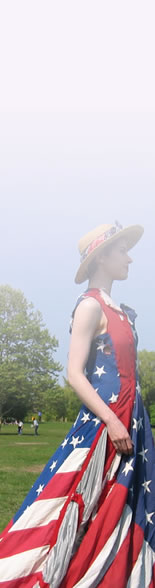
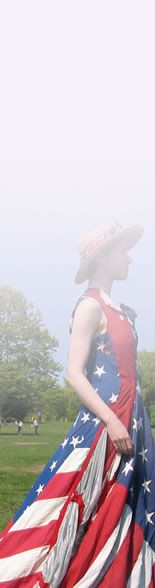
making sidebar backgrounds lighter so that Walking Wounded can be seen

Changed region(s): [[0.0, 0.398, 1.0, 0.7959], [0.4645, 0.5204, 0.4903, 0.551], [0.4387, 0.551, 0.4645, 0.5816]]

diff --git a/themes/lizcollins/sidebar-projects.php b/themes/lizcollins/sidebar-projects.php
@@ -50,7 +50,9 @@
 							'post_type' 	=> 'page', 
 							'post_status' 	=> 'publish',
 							'post_parent' 	=> 24,  //this will change in the remote version
-							'post__not_in'	=> array( 40 ) //Knitting Nation ID, don't show Knitting Nation in this list. It is also a project
+							'post__not_in'	=> array( 40 ), //Knitting Nation ID, don't show Knitting Nation in this list. It is also a project
+							'orderby'		=> 'title',
+							'order'			=> 'ASC'
 							);
 						global $post;
 						$program_pages = get_posts($args);
